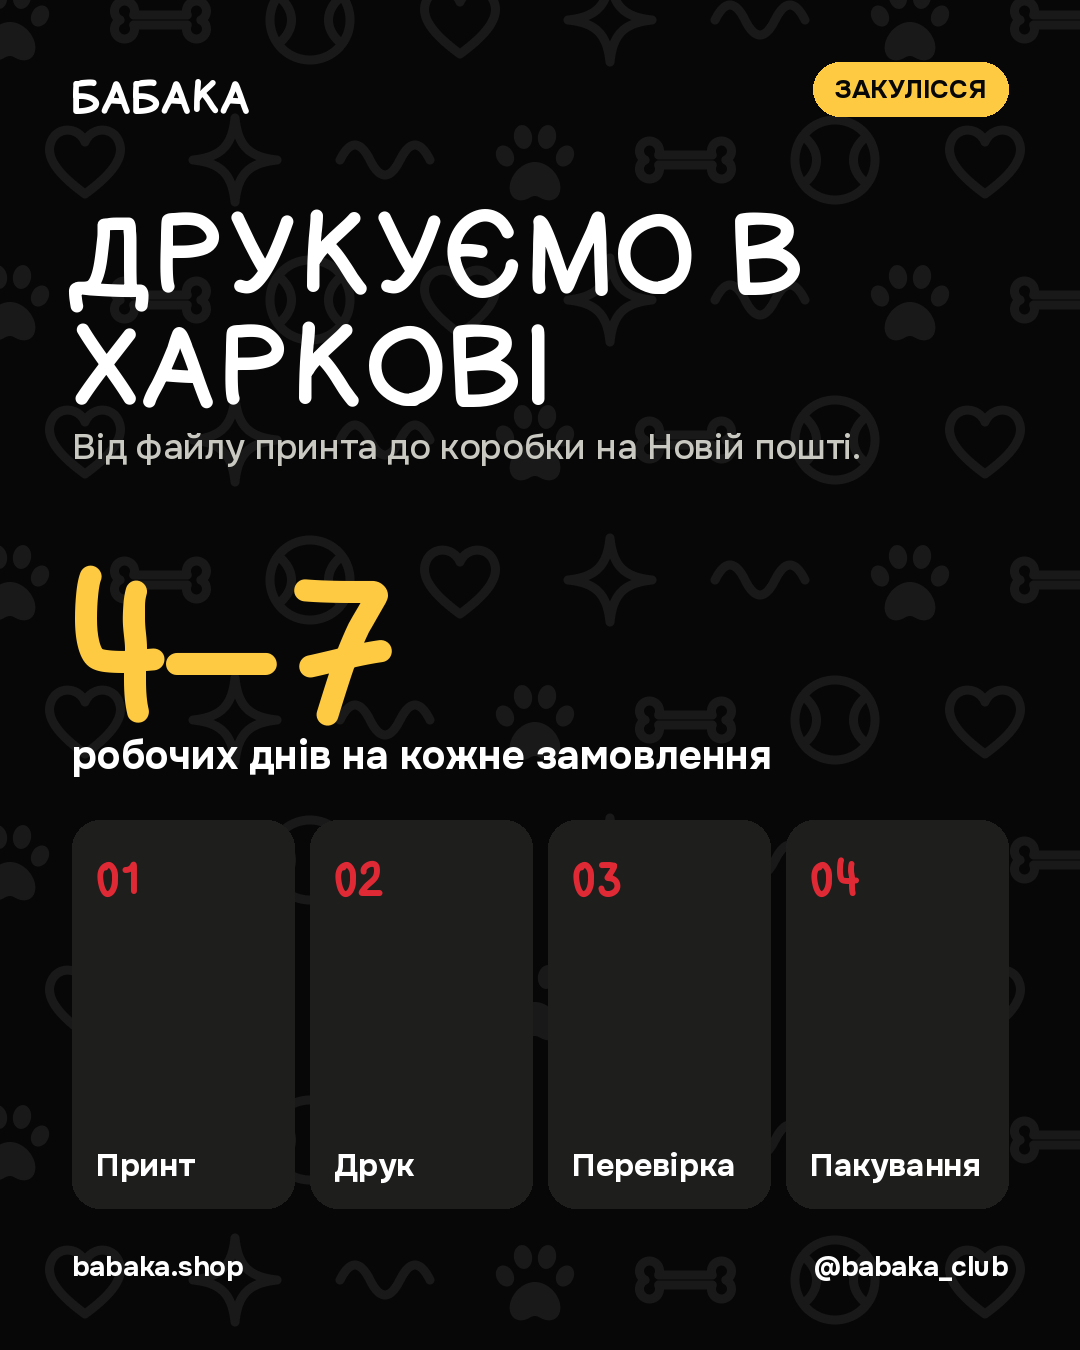
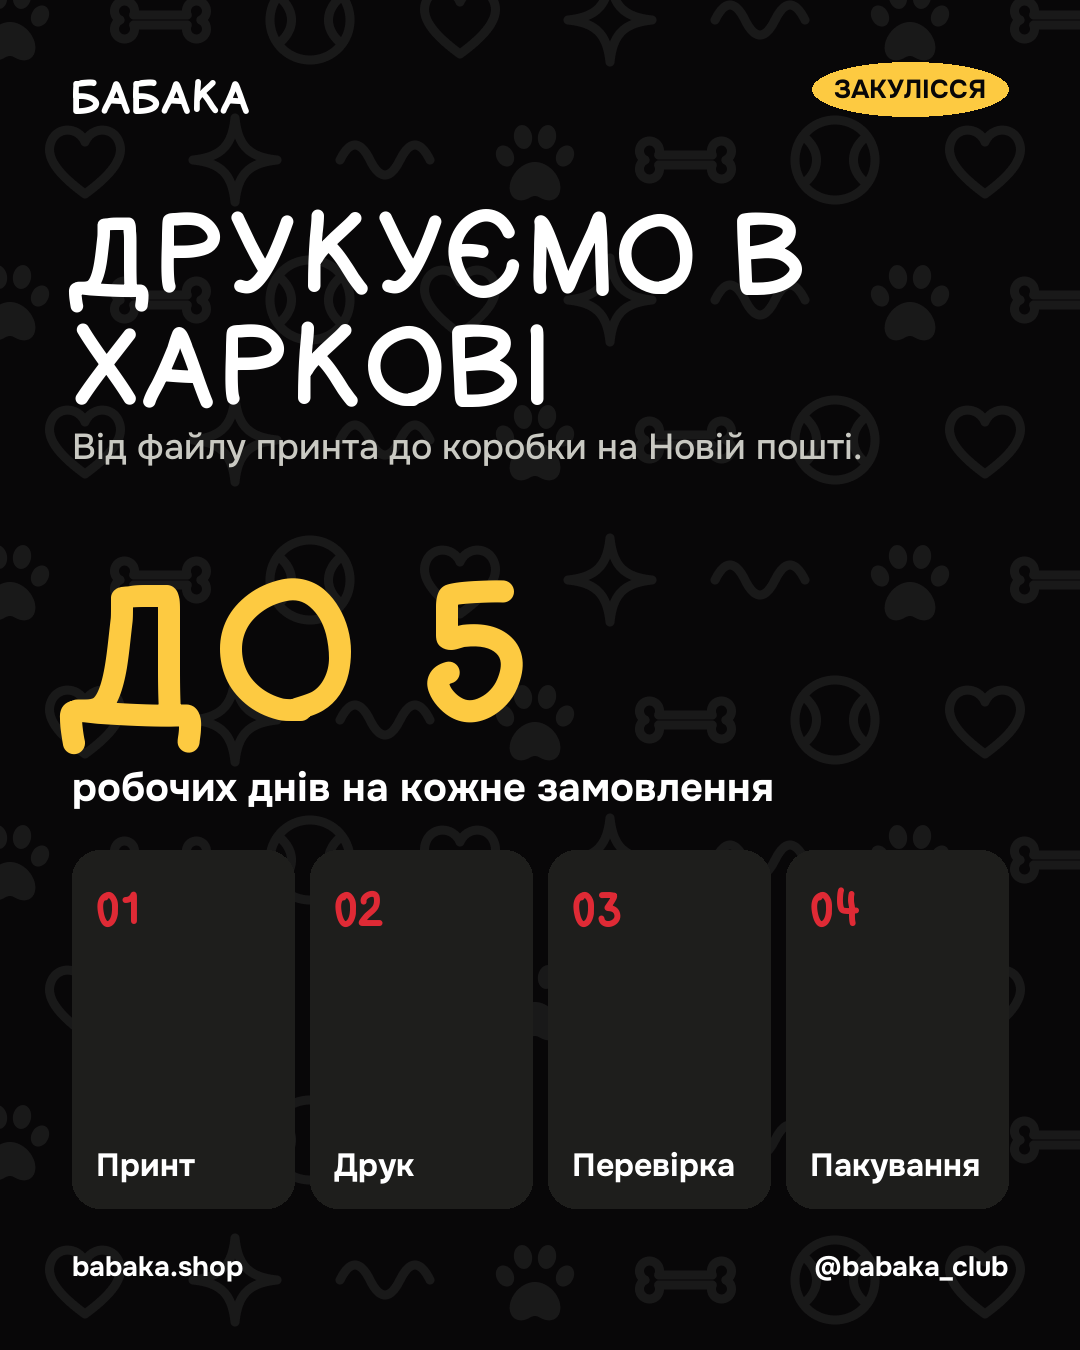
Instagram: строк виготовлення «до 5 робочих днів», текст оплати як на сайті
- plan.md і render.py: «4–7 робочих днів» → «до 5 робочих днів» (рішення Олексія, 17.10)
- обкладинка П04: велике «4–7» → «ДО 5», підпис зсунуто нижче хвоста літери «Д»
- оплата: «спишемо, коли підтвердимо наявність» → «сума блокується на картці, а спишемо її, коли підтвердимо замовлення» (як у order-terms.ts, PR #61)
- перемальовано posts/04.png і posts/07.png

diff --git a/docs/marketing/instagram-2026-10/render.py b/docs/marketing/instagram-2026-10/render.py
@@ -145,10 +145,10 @@ posts.append(('03 Портрет з фото — Твій пес твій при
 def p04():
     img, d = new(INK); chrome(img, d, INK, WHITE, 'ЗАКУЛІССЯ', YEL, INK)
     y, _ = head(d, 'Друкуємо в Харкові', 'Від файлу принта до коробки на Новій пошті.', WHITE, (201, 201, 194))
-    f = font('disp', 200); txt(d, (P - 6, y + 30), '4–7', f, YEL)
-    f2 = font('b', 40); d.text((P, y + 30 + 230), 'робочих днів на кожне замовлення', font=f2, fill=WHITE)
+    f = font('disp', 200); txt(d, (P - 6, y + 30), 'ДО 5', f, YEL)
+    f2 = font('b', 40); d.text((P, y + 30 + 262), 'робочих днів на кожне замовлення', font=f2, fill=WHITE)
     steps = ['Принт', 'Друк', 'Перевірка', 'Пакування']
-    top = y + 30 + 320; bottom = H - P - 70; gap = 16; cw = (W - 2 * P - 3 * gap) // 4
+    top = y + 30 + 350; bottom = H - P - 70; gap = 16; cw = (W - 2 * P - 3 * gap) // 4
     for i, s in enumerate(steps):
         x = P + i * (cw + gap); d.rounded_rectangle([x, top, x + cw, bottom], radius=28, fill=(30, 30, 28))
         txt(d, (x + 24, top + 22), f'0{i+1}', font('disp', 48), RED)
@@ -182,9 +182,9 @@ posts.append(('06 Боня і Паштет — Так він кіт', p06))
 def p07():
     img, d = new(PAPER); chrome(img, d, PAPER, INK, 'FAQ', INK, WHITE)
     y, _ = head(d, 'Питаєте — відповідаємо', 'Три питання, які нам ставлять найчастіше.', INK, GREY)
-    items = [('ОПЛАТА', 'Спишемо гроші, лише коли підтвердимо наявність', RED),
+    items = [('ОПЛАТА', 'Сума блокується на картці, а спишемо її, коли підтвердимо замовлення', RED),
              ('ДОСТАВКА', 'Новою поштою по всій Україні', YEL),
-             ('ТЕРМІН', '4–7 робочих днів на виготовлення', INK)]
+             ('ТЕРМІН', 'До 5 робочих днів на виготовлення', INK)]
     top = y + 40; bottom = H - P - 70; gap = 18; ch = (bottom - top - 2 * gap) // 3
     for i, (k, v, c) in enumerate(items):
         cy = top + i * (ch + gap); d.rounded_rectangle([P, cy, W - P, cy + ch], radius=28, fill=WHITE, outline=LINE, width=3)

diff --git a/docs/marketing/instagram-2026-10/plan.md b/docs/marketing/instagram-2026-10/plan.md
@@ -8,8 +8,8 @@
 
 - 38 порід, 84 принти в каталозі (дані з babaka.shop на 13.10.2026)
 - Доставка Новою поштою по всій Україні
-- Виготовлення 4–7 робочих днів
-- «Спишемо гроші, лише коли підтвердимо наявність» (оплата через Monobank: гроші блокуються на картці й списуються після нашого підтвердження; як у FAQ і кошику сайту). Формулювання «гроші під захистом банку» не вживати (рішення Олексія, 14.10)
+- Виготовлення до 5 робочих днів (рішення Олексія, 17.10; раніше було «4–7»)
+- «Сума лише блокується на картці, а спишемо її, коли підтвердимо замовлення» (оплата карткою через Monobank; той самий текст, що на товарі, у кошику, на оформленні й у FAQ сайту, `apps/web/src/config/order-terms.ts`). Не підтвердимо — блок знімемо, нічого не спишеться. «Підтвердимо наявність» не пишемо: підтверджуємо замовлення. Формулювання «гроші під захистом банку» не вживати (рішення Олексія, 14.10)
 - Свій принт з фото пса: адаптація +200 ₴ за одне місце нанесення
 - Опт і мерч від 10 шт: babaka.shop/opt
 - Колекції: «Бабаки в пабі», «Бабака UA» та інші: babaka.shop/collections
@@ -67,7 +67,7 @@
 > Якщо твоя такса теж вважає себе ротвейлером у душі — їй потрібен свій принт. А тобі — худі з ним.
 >
 > Усі принти з таксами (і такса з йорком у пабі) — за лінком у шапці профілю → Породи → Такса.
-> Друкуємо під замовлення за 4–7 робочих днів, відправляємо Новою поштою по всій Україні.
+> Друкуємо під замовлення до 5 робочих днів, відправляємо Новою поштою по всій Україні.
 >
 > Тегни таксятника, який має це побачити 👇
 >
@@ -89,9 +89,9 @@
 > 1. Заходиш на babaka.shop/svoya-ideya
 > 2. Завантажуєш фото й обираєш виріб
 > 3. Ми адаптуємо фото в принт
-> 4. Друкуємо за 4–7 робочих днів
+> 4. Друкуємо до 5 робочих днів
 >
-> Спишемо гроші, лише коли підтвердимо наявність.
+> Оплата карткою через Monobank: сума лише блокується на картці, а спишемо її, коли підтвердимо замовлення.
 >
 > #принтзфото #портретсобаки #свійпринт #бабака #подаруноксобачнику #одягзсобаками #кастомнийпринт #собачники
 
@@ -101,8 +101,8 @@
 
 ### 04 · Пн 26.10 · Закулісся: як народжується принт на худі
 - **Мета:** довіра
-- **Візуал (карусель):** 1) обкладинка з заголовком; 2–5) реальні фото: файл принта, друк, перевірка, пакування (знімає команда). На обкладинці — шкала «4–7 робочих днів».
-- **На зображенні:** «Друкуємо в Харкові» / «Від файлу принта до коробки — 4–7 робочих днів».
+- **Візуал (карусель):** 1) обкладинка з заголовком; 2–5) реальні фото: файл принта, друк, перевірка, пакування (знімає команда). На обкладинці — велике «до 5» і підпис «робочих днів на кожне замовлення».
+- **На зображенні:** «Друкуємо в Харкові» / «Від файлу принта до коробки на Новій пошті» + «до 5 робочих днів на кожне замовлення».
 - **Лінк:** сторіз → babaka.shop/pro-nas
 - **Підпис:**
 
@@ -110,7 +110,7 @@
 >
 > Бо ми не беремо готове зі складу. Кожну річ друкуємо під твоє замовлення тут, у Харкові. Свайпай →, щоб побачити весь шлях від файлу принта до коробки на Новій пошті.
 >
-> На все це йде 4–7 робочих днів. Боня особисто перевіряє кожну коробку (переважно носом).
+> На все це йде до 5 робочих днів. Боня особисто перевіряє кожну коробку (переважно носом).
 >
 > #зробленовхаркові #харків #українськийбренд #бабака #закулісся #друкуємосами #одягзсобаками #принтзсобакою
 
@@ -153,15 +153,15 @@
 ### 07 · Пн 02.11 · FAQ: оплата, доставка, розмір
 - **Мета:** довіра (знімаємо заперечення)
 - **Візуал (карусель):** обкладинка «Питання, які ви ставите найчастіше» + 3 картки: «Оплата», «Доставка», «Розмір».
-- **На зображенні:** «Питаєте — відповідаємо» / «Спишемо гроші, лише коли підтвердимо наявність · Нова пошта по всій Україні · 4–7 робочих днів».
+- **На зображенні:** «Питаєте — відповідаємо» / «Сума блокується на картці, а спишемо її, коли підтвердимо замовлення · Новою поштою по всій Україні · До 5 робочих днів на виготовлення».
 - **Лінк:** сторіз → babaka.shop/prints
 - **Підпис:**
 
 > Збираємо відповіді в одному місці 📌
 >
-> 💳 Чи безпечно оплачувати? Так: спишемо гроші, лише коли підтвердимо наявність.
+> 💳 Чи безпечно оплачувати? Так: оплата карткою через Monobank, під час оформлення сума лише блокується на картці, а спишемо її, коли підтвердимо замовлення. Не підтвердимо — блок знімемо, нічого не спишеться.
 > 📦 Як доставляєте? Новою поштою по всій Україні.
-> ⏳ Скільки чекати? Виготовлення займає 4–7 робочих днів: друкуємо під тебе, а не зі складу.
+> ⏳ Скільки чекати? Виготовлення займає до 5 робочих днів: друкуємо під тебе, а не зі складу.
 > 📏 Як обрати розмір? Напиши нам у директ, який ти зазвичай носиш, і ми підкажемо.
 >
 > Збережи, щоб не загубити, і кидай питання в коментарі.
